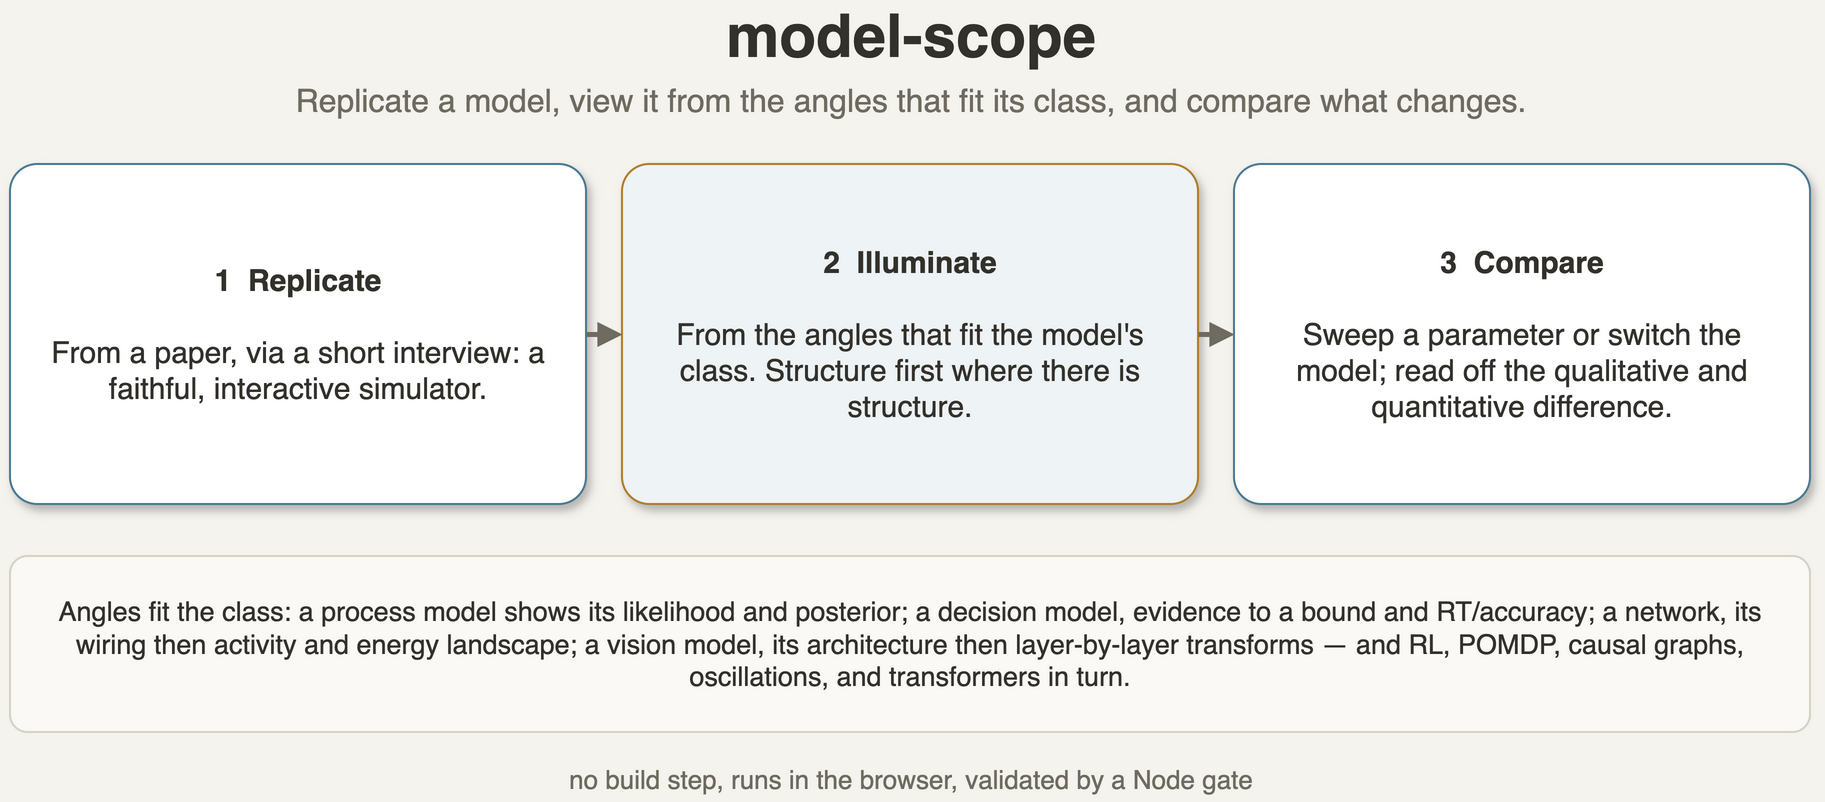
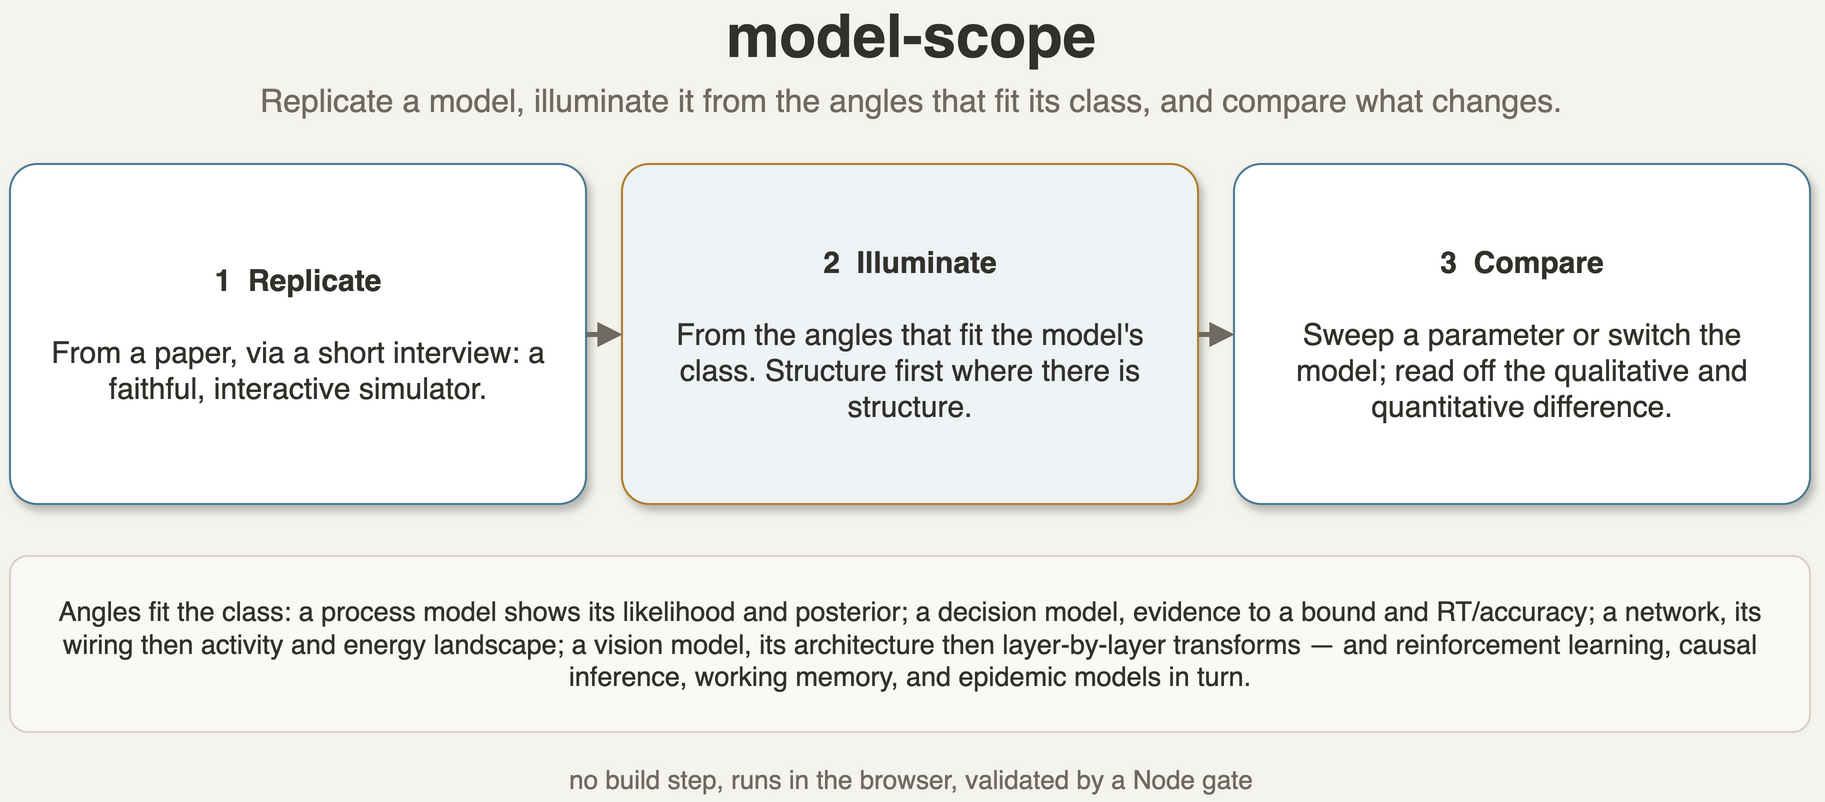
review/phase1: standardize lens-switch terminology, demote unbacked over-claims, hero diagram verb+class list
Fable team review (P1, multi-agent consensus): (1) 'level switch' vs 'lens' terminology was split across docs and the UI label said 'level' — standardized everything to 'lens switch'/'lens' (the reframe's own vocabulary, already used by plugin/marketplace). (2) Demoted over-claims with no shipped exemplar: SKILL frontmatter no longer claims a saccade/POMDP drawing recipe (now cites the shipped attractor + epidemic); README intro lists shipped classes; the hero diagram's class tail drops oscillations/transformers/POMDP for shipped ones; subtitle verb 'view'->'illuminate' to match the block + alt-text. (3) Reworded the plot.js arrow comment off the rejected 'input->transform' phrasing. POMDP/saccade remain in the trigger list (the harness genuinely can build them).

Changed region(s): [[0.0312, 0.7793, 0.9682, 0.8728], [0.1249, 0.0935, 0.8433, 0.1559]]

diff --git a/skills/model-scope/assets/template/engine.js b/skills/model-scope/assets/template/engine.js
@@ -347,7 +347,7 @@
     /* ---- A drift-diffusion decision: animate one trial's evidence, accumulate RTs. ---- */
     ddm: {
       id:'ddm', name:'Drift-diffusion decision',
-      blurb:'A pure evidence accumulator — the atom of decision models. Each timestep adds a fixed DRIFT (the signal) plus a random NOISE kick; repeat the atom and evidence random-walks to a bound (+z correct / −z error). Use the LEVEL switch (top) to zoom: one update → one trial → the whole distribution.',
+      blurb:'A pure evidence accumulator — the atom of decision models. Each timestep adds a fixed DRIFT (the signal) plus a random NOISE kick; repeat the atom and evidence random-walks to a bound (+z correct / −z error). Use the lens switch (top) to zoom: one update → one trial → the whole distribution.',
       note:'Step: x′ = x + A·dt + c·√dt·ξ — signal vs noise made explicit. Trial: that atom repeated until a bound is hit = one choice and its RT. Simulation: thousands of trials → the choice proportions and RT histogram the model predicts (what you compare to data). Larger A → faster & more accurate; larger z → slower & more accurate; larger c → noisier.',
       params:[
         {name:'A', label:'Drift A (signal)', min:0, max:3, step:0.01, default:1},
@@ -496,7 +496,7 @@
        Shows the harness generalises to image models. */
     vision: {
       id:'vision', name:'Early vision — orientation',
-      blurb:'A SENSORY model with IMAGE input. A noisy oriented grating is filtered by a bank of oriented Gabor energy channels; pooling them reads out the orientation. Use the level switch for the angles: the input image, how each channel re-represents it, the orientation readout. Move the sliders and watch all three update.',
+      blurb:'A SENSORY model with IMAGE input. A noisy oriented grating is filtered by a bank of oriented Gabor energy channels; pooling them reads out the orientation. Use the lens switch for the angles: the input image, how each channel re-represents it, the orientation readout. Move the sliders and watch all three update.',
       note:'Each channel is a quadrature Gabor pair (energy = even² + odd²) tuned to one orientation, so the image becomes one energy map per channel. Pooled energy across channels is an orientation tuning curve whose population-vector peak is the decoded orientation. Higher contrast or lower noise gives sharper tuning and a more accurate read-out. A different model class from the trial-based models (no time axis) — same harness, angles chosen to fit.',
       params:[
         {name:'ori', label:'Orientation θ (condition)', min:0, max:179, step:1, default:45, unit:'°'},
@@ -542,7 +542,7 @@
     /* ---- single-neuron biophysics: leaky integrate-and-fire (composed from MSLIB.neuron) ---- */
     lif: {
       id:'lif', name:'Spiking neuron (LIF)',
-      blurb:'A leaky integrate-and-fire neuron: input current charges the membrane until it hits threshold, fires a spike, and resets. Use the level switch for the angles: one V(t) trace, a spike raster over repeats, the f-I transfer curve. Move the current, noise, and membrane sliders.',
+      blurb:'A leaky integrate-and-fire neuron: input current charges the membrane until it hits threshold, fires a spike, and resets. Use the lens switch for the angles: one V(t) trace, a spike raster over repeats, the f-I transfer curve. Move the current, noise, and membrane sliders.',
       note:'dV/dt = (−(V−EL) + R·I)/τ with a hard threshold→reset (Vth→Vreset) and a refractory period. Stronger current → faster charging → higher rate (the f–I curve); current noise jitters spike times (the raster); toggle the refractory period off and the f–I curve loses its ceiling. A canonical single-neuron model, composed from MSLIB.neuron.',
       params:[
         {name:'I', label:'Input current I (condition)', min:0, max:0.8, step:0.005, default:0.35, unit:'nA'},
@@ -585,7 +585,7 @@
     /* ---- learning: Rescorla–Wagner value updating (composed from MSLIB.rl) ---- */
     rl: {
       id:'rl', name:'Reinforcement learning (RW)',
-      blurb:'A Rescorla–Wagner learner: a cue predicts value V; a reward arrives (prob p); the prediction error δ = r − V nudges V by α·δ. Use the level switch for the angles: one update decomposed, the learning curve, and how the learning rate α changes it.',
+      blurb:'A Rescorla–Wagner learner: a cue predicts value V; a reward arrives (prob p); the prediction error δ = r − V nudges V by α·δ. Use the lens switch for the angles: one update decomposed, the learning curve, and how the learning rate α changes it.',
       note:'V ← V + α·(r − V). The prediction error δ = r − V is the teaching signal; α sets how fast V tracks the reward probability (its asymptote ≈ p). Small α = slow & stable; large α = fast & jittery. Composed from MSLIB.rl.',
       params:[
         {name:'alpha', label:'Learning rate α (condition)', min:0.01, max:0.9, step:0.01, default:0.2},
@@ -630,7 +630,7 @@
        Structure (the circuit) - Step (one pool's recurrent input) - Dynamics (the pools race) - Landscape. */
     attractor: {
       id:'attractor', name:'Attractor network — decision',
-      blurb:'A recurrent 2-population decision circuit (Wong & Wang reduced). Two pools excite themselves and inhibit each other; a small coherence bias plus noise tips the network into one of two attractors. Use the level switch for the angles — structure first: Structure (the circuit wiring and E/I), Step (one pool’s recurrent input), Dynamics (the pools race to a winner), Landscape (the state-space the network rolls down).',
+      blurb:'A recurrent 2-population decision circuit (Wong & Wang reduced). Two pools excite themselves and inhibit each other; a small coherence bias plus noise tips the network into one of two attractors. Use the lens switch for the angles — structure first: Structure (the circuit wiring and E/I), Step (one pool’s recurrent input), Dynamics (the pools race to a winner), Landscape (the state-space the network rolls down).',
       note:'Each pool’s gating S obeys dS/dt = −S/τ_S + (1−S)·γ·φ(I), with input I = J_s·S_self − J_c·S_other + I₀ + stimulus + noise; self-excitation vs cross-inhibition is the competition. Strong cross-inhibition J_c destabilises the symmetric state, giving two stable attractors (winner-take-all); coherence biases which one wins. The Landscape lens maps the flow speed over (S₁,S₂): dark = slow = near a fixed point. Composed from MSLIB.decision.',
       params:[
         {name:'coh', label:'Coherence (condition, + favors pool 1)', min:-40, max:40, step:1, default:8, unit:'%'},
@@ -712,7 +712,7 @@
        Spread (space-time kymograph), Curve (well-mixed totals), Threshold (peak vs R0). */
     sir: {
       id:'sir', name:'Epidemic (spatial SIR)',
-      blurb:'A population model at the MACRO scale: Susceptible, Infected, Recovered on a line of coupled sites. Infection spreads locally (diffusion) and recovers at rate γ. Use the level switch for the angles: Spread (the epidemic as a space-time map), Curve (the classic S/I/R totals), Threshold (how the peak depends on R0). Move R0, γ, and spread.',
+      blurb:'A population model at the MACRO scale: Susceptible, Infected, Recovered on a line of coupled sites. Infection spreads locally (diffusion) and recovers at rate γ. Use the lens switch for the angles: Spread (the epidemic as a space-time map), Curve (the classic S/I/R totals), Threshold (how the peak depends on R0). Move R0, γ, and spread.',
       note:'Per site: dS=−βS·Ĩ, dI=βS·Ĩ−γI, dR=γI, where Ĩ = I + D·(neighbours−I) couples sites (a discrete diffusion); β = R0·γ. Below the epidemic THRESHOLD R0=1 the outbreak fizzles; above it, a travelling wave sweeps the line (the Spread map) and the well-mixed curve shows the familiar infected peak. The Threshold lens traces peak prevalence vs R0 — flat then rising sharply past 1. Same harness, angles chosen for a field/population model.',
       params:[
         {name:'R0', label:'Basic reproduction number R₀ (condition)', min:0, max:4, step:0.05, default:2.5},

diff --git a/skills/model-scope/assets/template/index.html b/skills/model-scope/assets/template/index.html
@@ -129,7 +129,7 @@ function buildModelTabs(){ const nav=$('#modelTabs'); nav.innerHTML='';
 function buildLensSwitch(){ const box=$('#lensSwitch'), sep=$('#lensSep'); box.innerHTML='';
   if(!S.lensKeys){ box.style.display='none'; sep.style.display='none'; return; }
   box.style.display='flex'; sep.style.display='block';
-  const lab=document.createElement('span'); lab.className='ll'; lab.textContent='level'; box.appendChild(lab);
+  const lab=document.createElement('span'); lab.className='ll'; lab.textContent='lens'; box.appendChild(lab);
   S.lensKeys.forEach(k=>{ const L=S.model.lenses[k], b=document.createElement('button'); b.textContent=L.label||k;
     b.setAttribute('aria-pressed',k===S.lens); b.title=L.about||''; b.onclick=()=>switchLens(k); box.appendChild(b); }); }
 function switchLens(k){ if(k===S.lens) return; S.lens=k; stopAll();

diff --git a/skills/model-scope/assets/template/plot.js b/skills/model-scope/assets/template/plot.js
@@ -70,7 +70,7 @@
       marker(x,y,o={}){ const X=sx(x),Y=sy(y); ctx.fillStyle=o.color||TH.ink; ctx.strokeStyle=o.stroke||'#fff'; ctx.lineWidth=1.4;
         ctx.beginPath(); ctx.arc(X,Y,o.r||4,0,7); ctx.fill(); if(o.stroke)ctx.stroke();
         if(o.label){ ctx.fillStyle=o.color||TH.ink; ctx.font=MONO(10); ctx.textAlign='center'; ctx.fillText(o.label,X,Y-7*FS); } return g; },
-      // arrow in DATA coords (x0,y0)→(x1,y1) with a head + optional centred label — for atomic input→transform views
+      // arrow in DATA coords (x0,y0)→(x1,y1) with a head + optional centred label — for step-decomposition / waterfall views
       arrow(x0,y0,x1,y1,o={}){ const X0=sx(x0),Y0=sy(y0),X1=sx(x1),Y1=sy(y1); ctx.strokeStyle=o.color||TH.ink; ctx.fillStyle=o.color||TH.ink; ctx.lineWidth=o.width||2;
         ctx.beginPath(); ctx.moveTo(X0,Y0); ctx.lineTo(X1,Y1); ctx.stroke();
         const a=Math.atan2(Y1-Y0,X1-X0), hd=(o.head||6)*FS, dist=Math.hypot(X1-X0,Y1-Y0);

diff --git a/README.md b/README.md
@@ -14,8 +14,8 @@ the equations.
 > A **Bayesian observer** draws prior, likelihood, posterior and a central-tendency curve.
 > A **leaky integrate-and-fire neuron** draws a *V(t)* trace, a spike raster, and an *f–I* curve.
 > A **drift-diffusion** model animates an evidence trajectory and a response-time histogram.
-> A **causal-inference**, **working-memory**, **RL**, **POMDP**, **saccade**, or
-> **population** model draws whatever makes *it* intuitive.
+> A **causal-inference**, **working-memory**, **RL**, **attractor-network**, or
+> **epidemic** model draws whatever makes *it* intuitive.
 
 It is built for researchers in perception, decision-making, learning, memory, and
 single-neuron dynamics who want to *understand* a model by tuning it.
@@ -52,7 +52,7 @@ angle catalogue in [`references/levels.md`](skills/model-scope/references/levels
 - **The model picks the picture.** Each view sets its own axes and draws whatever is
   intuitive: distributions, tuning / psychometric curves, rasters, phase portraits,
   energy landscapes, belief simplices, learning curves.
-- **Switch angle, not just play.** A level switch shows one model from the angles that fit it: a
+- **Switch angle, not just play.** A lens switch shows one model from the angles that fit it: a
   decision model gets one trial and the many-trial statistics; a network gets its structure, then
   activity, representation, and landscape; an image/CNN model gets its architecture first, then the
   layer-by-layer transforms — each driven by a continuous playhead or a step-by-step stepper.
@@ -74,17 +74,17 @@ angle catalogue in [`references/levels.md`](skills/model-scope/references/levels
 
 The bundled template runs **eleven** worked models that **span the model scales** — behavioural /
 process, single-neuron, sensory, network, and macro — across every idiom (a continuous playhead, a
-process-mode stepper, and the perspective **level switch**):
+process-mode stepper, and the **lens switch**):
 
 | Model | Domain / scale | Idiom | What you watch |
 |---|---|---|---|
-| **Drift-diffusion decision** | decision-making | level switch | one update (drift plus noise to new evidence); one trial walking to a bound; the RT histogram building up |
+| **Drift-diffusion decision** | decision-making | lens switch | one update (drift plus noise to new evidence); one trial walking to a bound; the RT histogram building up |
 | **Decision: integrate vs one sample** | comparison | sliders + toggle | toggle two models; a speed-accuracy overlay; a metric heatmap over a (drift, noise) grid; accuracy / speed / reward bars; the mechanism |
-| **Early vision (orientation)** | sensory / image | level switch | the input grating image; oriented Gabor channels re-representing it; the orientation tuning and decoded angle |
-| **Attractor network** | network | level switch | one pool's recurrent input; the pools racing (winner-take-all); the (S1, S2) energy-landscape heatmap and trajectory |
-| **Epidemic (spatial SIR)** | macro / population | level switch | a space-time kymograph of a travelling infection wave; the S/I/R curves; peak prevalence vs R0 (the epidemic threshold) |
-| **Spiking neuron (LIF)** | single-neuron biophysics | level switch | a V(t) trace integrating to threshold; a spike raster over repeats; the f-I transfer curve (with a refractory toggle) |
-| **Reinforcement learning (RW)** | learning | level switch | one Rescorla-Wagner update; the value learning curve; curves across learning rates |
+| **Early vision (orientation)** | sensory / image | lens switch | the input grating image; oriented Gabor channels re-representing it; the orientation tuning and decoded angle |
+| **Attractor network** | network | lens switch | one pool's recurrent input; the pools racing (winner-take-all); the (S1, S2) energy-landscape heatmap and trajectory |
+| **Epidemic (spatial SIR)** | macro / population | lens switch | a space-time kymograph of a travelling infection wave; the S/I/R curves; peak prevalence vs R0 (the epidemic threshold) |
+| **Spiking neuron (LIF)** | single-neuron biophysics | lens switch | a V(t) trace integrating to threshold; a spike raster over repeats; the f-I transfer curve (with a refractory toggle) |
+| **Reinforcement learning (RW)** | learning | lens switch | one Rescorla-Wagner update; the value learning curve; curves across learning rates |
 | **Bayesian observer** | perception / inference | continuous | prior, likelihood, posterior on a stimulus axis; an estimate-vs-true central-tendency curve (with an SD ribbon); trial-to-trial prior updating |
 | **Efficient-coding observer** (Wei & Stocker) | perception | process mode | prior, warped encoding, measurement, skewed likelihood, posterior, estimate; bias and discriminability |
 | **Causal inference** (Körding et al.) | multisensory | process mode | cues, per-hypothesis likelihoods, p(common cause), branch estimates, combine; the ventriloquism bias |
@@ -236,7 +236,7 @@ this shape works:
 
 ### Angles (`lenses`)
 
-A model can declare `lenses` and the toolbox shows a **level switch** that views the same
+A model can declare `lenses` and the toolbox shows a **lens switch** that views the same
 simulation from several **angles** chosen for the model's class — the lens keys are free. A
 decision model: one update, one trial, the statistics. A network: structure, activity,
 representation, landscape. A vision model: architecture, layer transforms. Where there is

diff --git a/skills/model-scope/assets/template/README.md b/skills/model-scope/assets/template/README.md
@@ -8,19 +8,19 @@ graphic or axis.
 Ships with eleven examples spanning the model SCALES (behavioural, single-neuron, sensory, network,
 macro) and every idiom, so you can see the range. Each model is replicated and shown from the angles
 that fit its class; the payoff is comparing what changes across parameters and model choices.
-- **Drift-diffusion decision** *(level switch)* — the angles: one update (drift plus noise), one trial
+- **Drift-diffusion decision** *(lens switch)* — the angles: one update (drift plus noise), one trial
   walking to a bound, and the RT histogram over many trials.
 - **Decision: integrate vs one sample** *(toggle + heatmap)* — compare two models via a toggle: a
   speed-accuracy overlay, a metric heatmap over a (drift, noise) grid, and metric bars.
-- **Attractor network — decision** *(level switch)* — structure first: the circuit wiring and E/I,
+- **Attractor network — decision** *(lens switch)* — structure first: the circuit wiring and E/I,
   then one pool's input, winner-take-all dynamics, and the (S1, S2) energy-landscape heatmap.
-- **Epidemic (spatial SIR)** *(level switch)* — a macro model: a space-time kymograph, the S/I/R
+- **Epidemic (spatial SIR)** *(lens switch)* — a macro model: a space-time kymograph, the S/I/R
   curves, and peak prevalence vs R0 (the epidemic threshold).
-- **Early vision — orientation** *(level switch)* — an image-input model: the grating image, oriented
+- **Early vision — orientation** *(lens switch)* — an image-input model: the grating image, oriented
   Gabor energy channels re-representing it, and the orientation tuning with the decoded angle.
-- **Spiking neuron (LIF)** *(level switch)* — a V(t) trace to threshold, a spike raster over repeats,
+- **Spiking neuron (LIF)** *(lens switch)* — a V(t) trace to threshold, a spike raster over repeats,
   and the f-I transfer curve, with a refractory-period **toggle**.
-- **Reinforcement learning (RW)** *(level switch)* — one Rescorla-Wagner update (δ = r − V), the value
+- **Reinforcement learning (RW)** *(lens switch)* — one Rescorla-Wagner update (δ = r − V), the value
   learning curve, and curves across learning rates α.
 - **Bayesian observer** *(continuous)* — prior, likelihood, posterior on a stimulus axis, an
   estimate-vs-true central-tendency curve (with an SD ribbon), and a trial-to-trial prior update.

diff --git a/skills/model-scope/SKILL.md b/skills/model-scope/SKILL.md
@@ -6,8 +6,9 @@ description: >-
   result update live, shown in views the MODEL defines — there is NO fixed graphic or
   axis. A Bayesian observer draws prior/likelihood/posterior + a bias (central-tendency)
   curve + trial-to-trial prior updating; a neuron draws a V(t) trace + spike raster +
-  f–I curve; a decision model animates an evidence trajectory + an RT histogram; a
-  saccade model draws eye paths + a landing map; a POMDP draws belief evolution. USE THIS
+  f–I curve; a decision model animates an evidence trajectory + an RT histogram; an
+  attractor network draws its circuit then winner-take-all dynamics + an energy landscape;
+  a spatial epidemic draws a space-time spread map. USE THIS
   whenever the user wants a simulator / parameter explorer / "see how the result changes
   as I tune X" / "turn these equations into something I can play with" / a teaching demo
   for researchers — neuron models, Bayesian/ideal-observer models, drift-diffusion or
@@ -56,7 +57,7 @@ Reproducing a specific figure is at most a *check*, never the point.
 
 ## Angles as first-class UI — `lenses`
 
-A model declares its **angles** as **lenses**; the toolbox renders a level switch and swaps the
+A model declares its **angles** as **lenses**; the toolbox renders a lens switch and swaps the
 active views + playhead per lens, over the **same `simulate()` data** (no recompute on switch). The
 lens *keys/labels are free* — name them for the model's own angles:
 

diff --git a/agents/model-gui-builder.md b/agents/model-gui-builder.md
@@ -24,7 +24,7 @@ references first); this file is *who you are*, the skill is *how you build*.
 - **Replicate, illuminate from many angles, compare; don't reproduce the figure.** Replicate the
   model faithfully, then show it from the angles that fit its class — and where there is structure
   (a network's wiring/E-I/plasticity, a CNN's architecture), show that structure first. Declare the
-  angles as `lenses` for a level switch, and make the payoff **comparison**: a parameter sweep
+  angles as `lenses` for a lens switch, and make the payoff **comparison**: a parameter sweep
   (coloured curves or a heatmap) and, where useful, a model toggle, so the user sees the qualitative
   and quantitative differences. Figure-matching is at most a check. See `references/levels.md`.
 - **Pick views that build intuition.** Decide what to *show*: distributions, a tuning /

diff --git a/skills/model-scope/references/architecture.md b/skills/model-scope/references/architecture.md
@@ -33,7 +33,7 @@ deterministic). `npdf(x,μ,σ)` (normal pdf) is also exported for distribution v
 | `views[]` | ✓ | `[{title, draw(g,data,ui)}]` — each panel draws its own axes/graphics |
 | `anim` | – | `{length:(p,data)=>N}` → **continuous** sequential: play/scrub, `ui.head∈[0,N]` (a trial index, a time, an iteration) |
 | `stages` | – | `(p,data)=>[{key,name,about}]` (or a static array) → **process mode**: the playhead steps through the model's named pipeline stages; views switch on `ui.stage`/`ui.stageKey` to reveal each computation in turn |
-| `lenses` | – | `{angleA,angleB,…}` — several ANGLES on the same `simulate()` data (keys are free); each is `{label,about,views,anim?\|stages?}`. The toolbox shows a level switch and binds the active lens's views + playhead (no recompute on switch). Use instead of top-level `views`/`anim`/`stages`. See the skill's "Angles as first-class UI" + `references/levels.md` |
+| `lenses` | – | `{angleA,angleB,…}` — several ANGLES on the same `simulate()` data (keys are free); each is `{label,about,views,anim?\|stages?}`. The toolbox shows a lens switch and binds the active lens's views + playhead (no recompute on switch). Use instead of top-level `views`/`anim`/`stages`. See the skill's "Angles as first-class UI" + `references/levels.md` |
 
 `ui = { head, playing, params, frac, stage, stageKey, stages, nStages }`. `head` is the
 continuous playhead (∈[0,length]); `frac = head−⌊head⌋` is within-step progress (use it to

diff --git a/skills/model-scope/references/gui-qc.md b/skills/model-scope/references/gui-qc.md
@@ -49,7 +49,7 @@ Text-size control reflows fonts/margins — larger text is where overlap shows u
 - [ ] The paper's thesis is visible: what's held **fixed** looks fixed; what **varies**, varies.
 
 **Angles / lenses (if the model declares `lenses`):** — *lens keys are free; check the angles that fit the model's class.*
-- [ ] The level switch shows; each lens binds its own views, and switching is instant (no recompute,
+- [ ] The lens switch shows; each lens binds its own views, and switching is instant (no recompute,
       no stale playhead/overlay).
 - [ ] The lenses cover the angles that fit the class (process: process / trial / simulation; decision:
       one trial + histograms by condition; network: structure / activity / representation / landscape;

diff --git a/skills/model-scope/references/levels.md b/skills/model-scope/references/levels.md
@@ -37,7 +37,7 @@ the model's behaviour, and its dependence on parameters and model choice, legibl
 
 ## Declaring lenses
 
-A model exposes its angles by declaring `lenses`; the toolbox shows a level switch and binds the
+A model exposes its angles by declaring `lenses`; the toolbox shows a lens switch and binds the
 active lens's views + playhead over the **same `simulate()` data** (switching is instant — no recompute):
 
 ```js